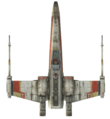
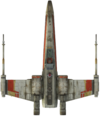
New hitbox system with x and y, background image and new entity images

Changed region(s): [[0.0, 0.0, 1.0, 1.0]]

diff --git a/StarWars/Game1.cs b/StarWars/Game1.cs
@@ -17,11 +17,13 @@ namespace StarWars
         private static int windowHeight;
 
         //Textures for the gameObjects
-        Texture2D xwingImg, tiefighterImg, redLaser;
+        Texture2D xwingImg, tiefighterImg, redLaser, backgroundImg;
 
         //Class objects
         Player player;
         EnemyHandler enemyHandler;
+        GameObject background;
+
         public Game1()
         {
             graphics = new GraphicsDeviceManager(this);
@@ -62,13 +64,15 @@ namespace StarWars
             spriteBatch = new SpriteBatch(GraphicsDevice);
 
             //Load in textures for the gameObjects
+            backgroundImg = Content.Load<Texture2D>("stars");
             xwingImg = Content.Load<Texture2D>("xwing");
             tiefighterImg = Content.Load<Texture2D>("tiefighter");
             redLaser = Content.Load<Texture2D>("redLaser");
 
             //Creates the player xwing
-            player = new Player(xwingImg, 110, 10, redLaser);
+            player = new Player(xwingImg, 110, 110, 10, redLaser);
             enemyHandler = new EnemyHandler(tiefighterImg);
+            background = new GameObject(backgroundImg, windowWidth, windowHeight);
         }
 
         /// <summary>
@@ -111,6 +115,9 @@ namespace StarWars
 
             //Start of drawing all gameObjects on the screen
             spriteBatch.Begin();
+
+            //Draw the background stars
+            background.Draw(spriteBatch);
 
             //Draw the xwing
             player.Draw(spriteBatch);

diff --git a/StarWars/Laser.cs b/StarWars/Laser.cs
@@ -5,14 +5,14 @@ namespace StarWars
 {
     class Laser:Entity
     {
-        public Laser(Texture2D texture, Vector2 position, int hitboxSize, int hitboxY, int speed):base(texture, hitboxSize, speed)
+        public Laser(Texture2D texture, Vector2 position, int hitboxX, int hitboxY, int speed):base(texture, hitboxX, hitboxY, speed)
         {
             //Set the position of the laser
             Position = position;
 
             //Set the hitbox position
+            hitbox.Width = hitboxX;
             hitbox.Height = hitboxY;
-            hitbox.Width = hitboxSize;
         }
 
         public override void Update()

diff --git a/StarWars/GameObject.cs b/StarWars/GameObject.cs
@@ -13,13 +13,13 @@ namespace StarWars
         public Vector2 Position { get => position; set => position = value; }
         public Rectangle Hitbox { get => hitbox; }
 
-        public GameObject(Texture2D texture, int hitboxSize)
+        public GameObject(Texture2D texture, int hitboxX, int hitboxY)
         {
             //Load the textures and position
             this.texture = texture;
 
             //Set the hitbox size
-            hitbox.Size = new Point(hitboxSize, hitboxSize);
+            hitbox.Size = new Point(hitboxX, hitboxY);
         }
 
         public virtual void Update()

diff --git a/StarWars/Player.cs b/StarWars/Player.cs
@@ -14,7 +14,7 @@ namespace StarWars
 
         private LaserHandler laserHandler;
 
-        public Player(Texture2D texture, int hitboxSize, int speed, Texture2D laserTexture):base(texture, hitboxSize, speed)
+        public Player(Texture2D texture, int hitboxX, int hitboxY, int speed, Texture2D laserTexture):base(texture, hitboxX, hitboxY, speed)
         {
             //Set the start position
             Position = new Vector2((Game1.WindowWidth / 2) - (Hitbox.Width / 2), Game1.WindowHeight - Hitbox.Height - 50);

diff --git a/StarWars/Enemy.cs b/StarWars/Enemy.cs
@@ -6,7 +6,7 @@ namespace StarWars
 {
     class Enemy:Entity
     {
-        public Enemy(Texture2D texture, int hitboxSize, int speed, int positionX):base(texture, hitboxSize, speed)
+        public Enemy(Texture2D texture, int hitboxX, int hitboxY, int speed, int positionX):base(texture, hitboxX, hitboxY, speed)
         {
             //Set the position of the enemy
             position.X = positionX;

diff --git a/StarWars/Entity.cs b/StarWars/Entity.cs
@@ -12,7 +12,7 @@ namespace StarWars
 
         public bool Alive { get => alive; set => alive = value; }
 
-        public Entity(Texture2D texture, int hitboxSize, int speed):base(texture, hitboxSize)
+        public Entity(Texture2D texture, int hitboxX, int hitboxY, int speed):base(texture, hitboxX, hitboxY)
         {
             this.speed = speed;
         }

diff --git a/StarWars/EnemyHandler.cs b/StarWars/EnemyHandler.cs
@@ -37,7 +37,7 @@ namespace StarWars
                 int positionX = random.Next(Game1.WindowWidth);
 
                 //Add the enemy
-                enemies.Add(new Enemy(texture, 80, 10, positionX));
+                enemies.Add(new Enemy(texture, 80, 80, 10, positionX));
             }
         }
         public void Draw(SpriteBatch spriteBatch)
